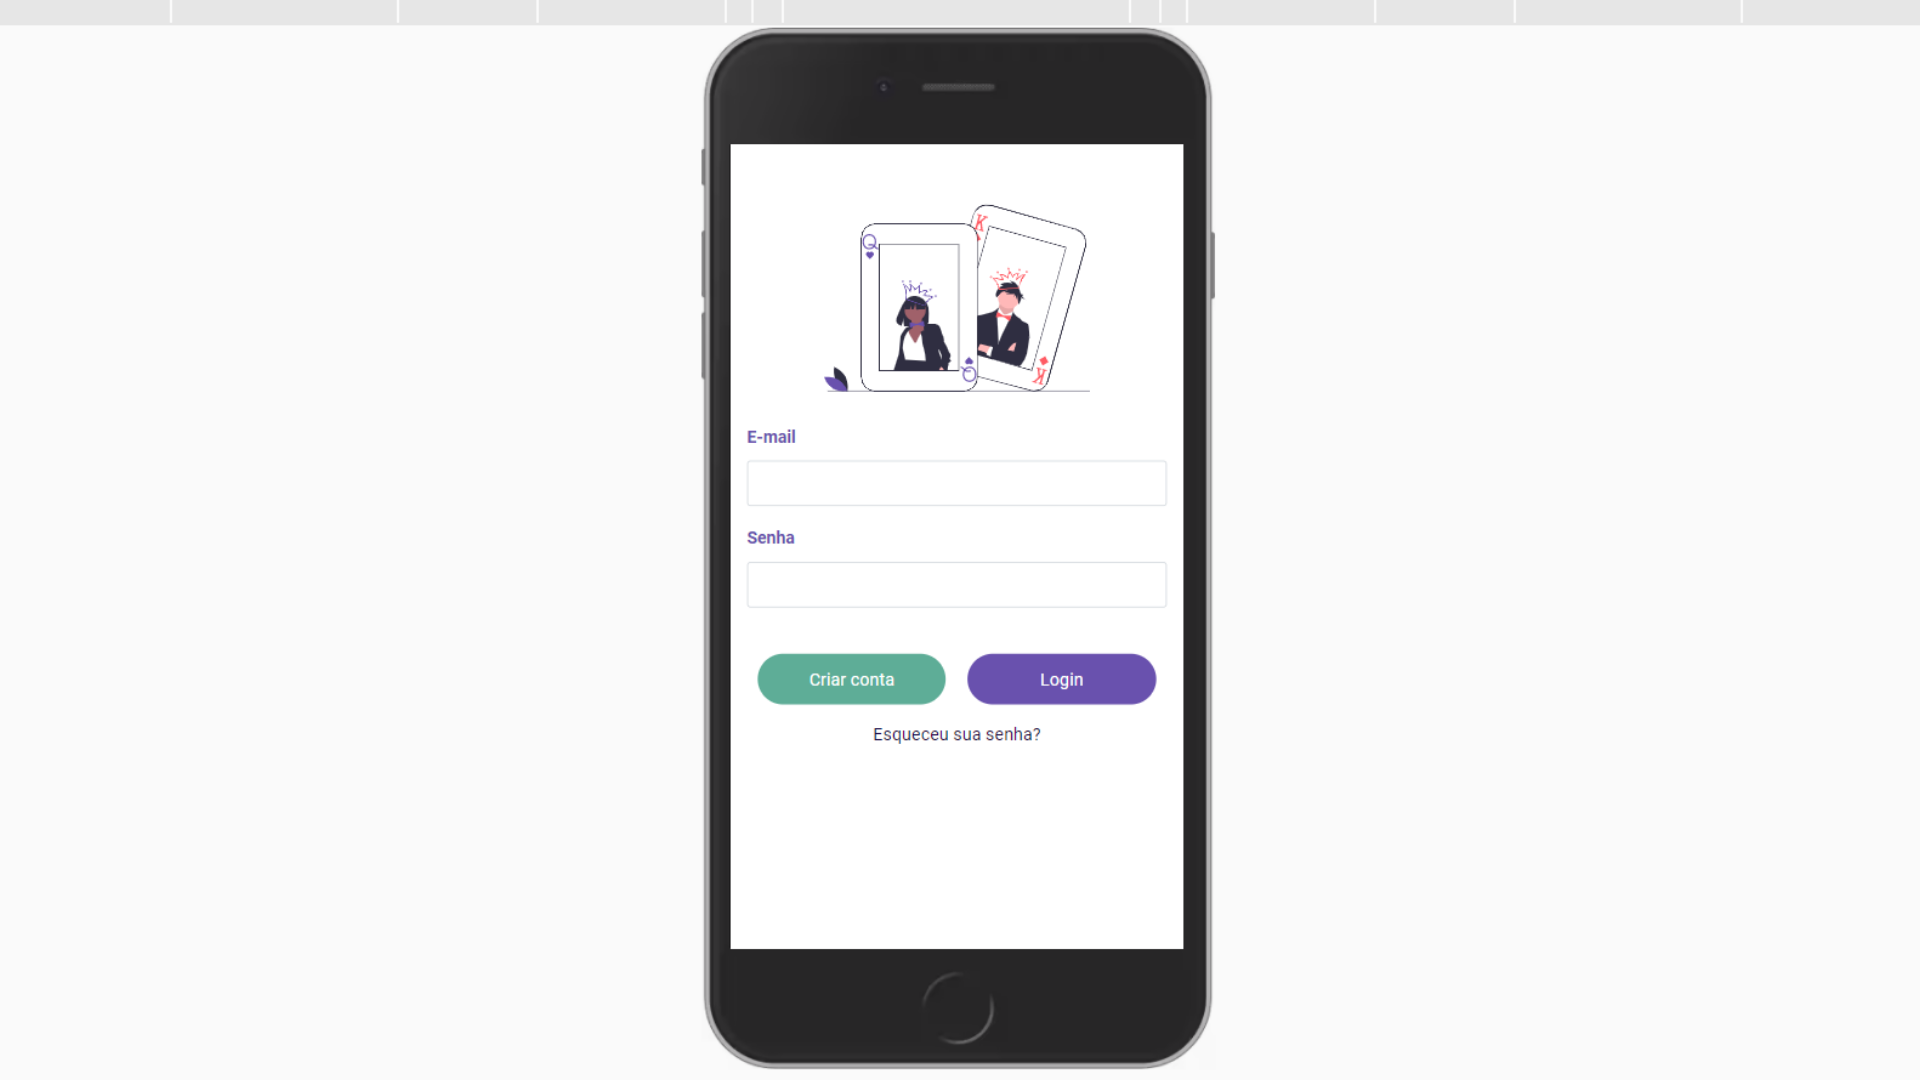
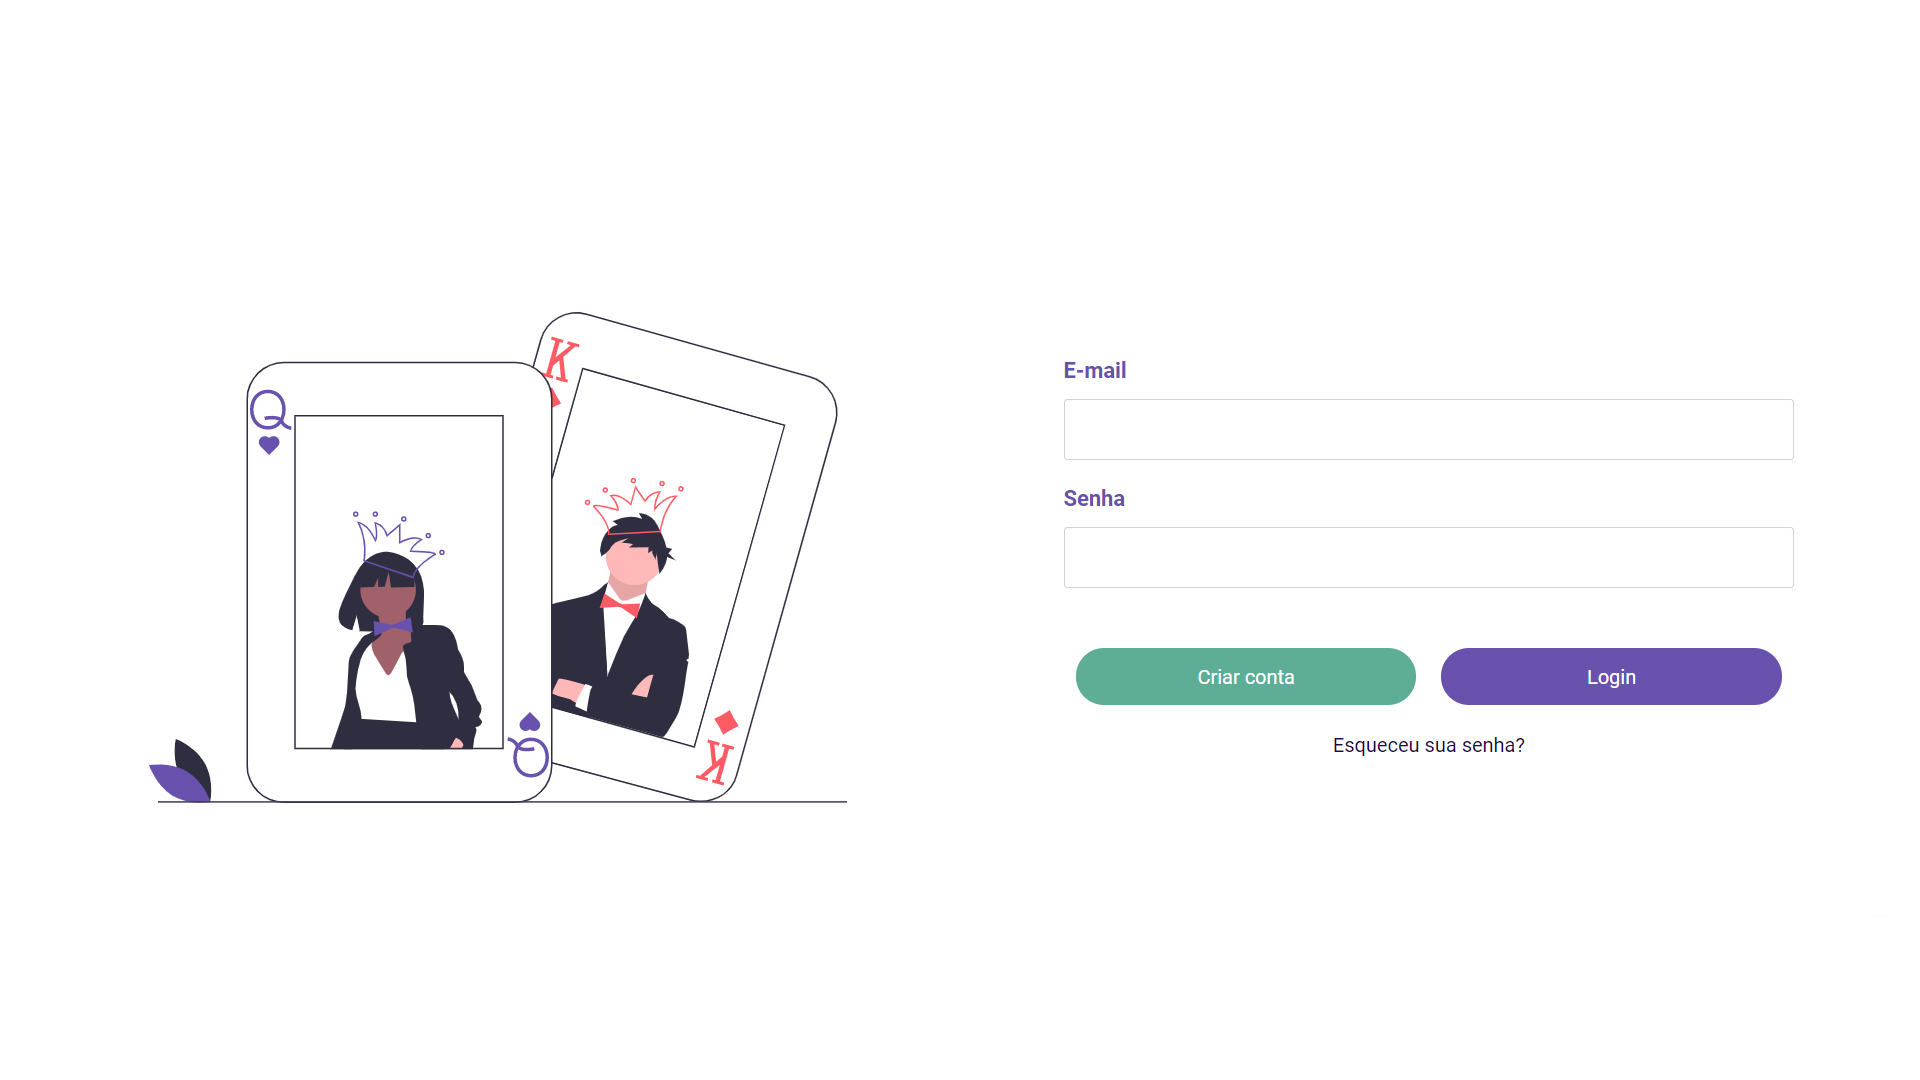
Removendo ebextensions para deploy no netlify

diff --git a/data.js b/data.js
@@ -32,9 +32,9 @@ module.exports = [
     {
         id: "buraco",
         title: "Placar de buraco",
-        description: "Projeto webview pessoal para praticar inicialização de aplicativo com controle de usuário e desenvolvimento orientado por testes (TDD).",
-        moduleIcon: "smartphone",
-        module: "Webview",
+        description: "Projeto pessoal para praticar inicialização de aplicativo com controle de usuário e desenvolvimento orientado por testes (TDD).",
+        moduleIcon: "devices",
+        module: "Responsivo",
         environment: "Laravel, Vue.js, MySQL",
         link: "http://php-laravel-env.eba-havppnq7.sa-east-1.elasticbeanstalk.com/login",
         repo: "https://github.com/adejota/buraco"
